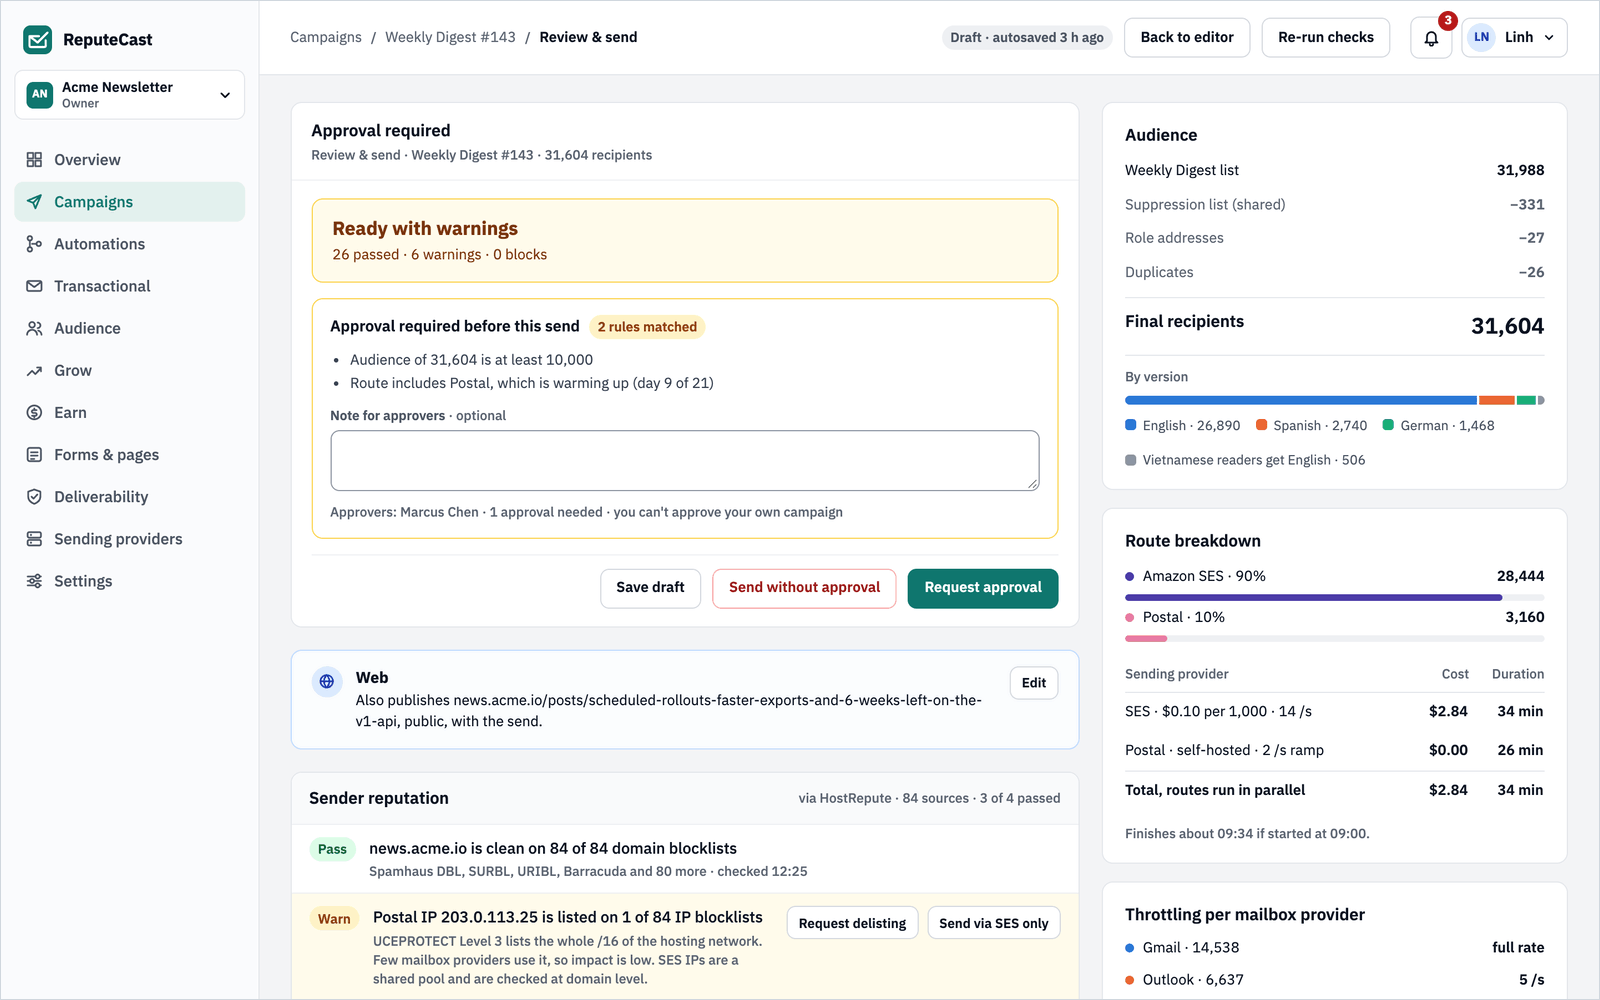
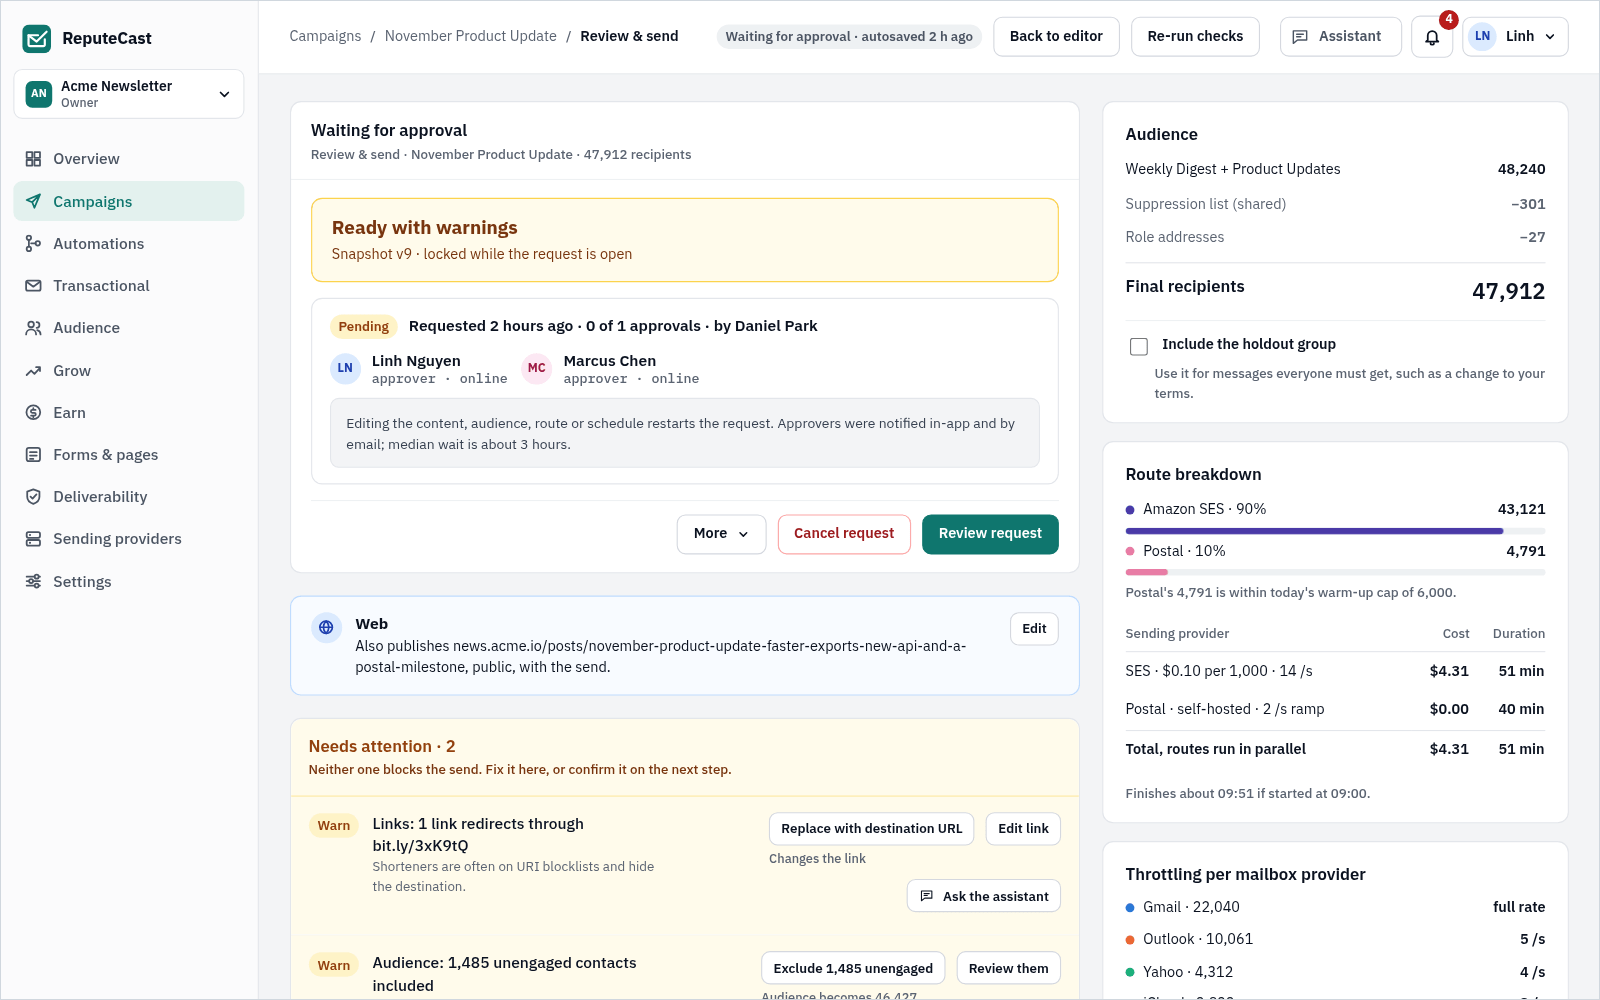
docs(readme): screenshots of 1.8, with the assistant and the dark theme
The thirteen screenshots were from 24 October, before the design
expansion's later milestones and the assistant. They are retaken from
the demo data at 1440 × 900 (1600 × 1000 files, the same border and
palette), and two join them: the assistant panel beside a report, and
the Overview in the dark theme. Send Readiness shows November Product
Update, since Weekly Digest #143 now reads "Couldn't finish every
check" in the demo (its personalized links aren't requested). Alt text
follows what each screenshot shows now.

diff --git a/README.md b/README.md
@@ -127,12 +127,12 @@ seat or workspace limit.
 <table>
   <tr>
     <td width="50%" valign="top">
-      <img src="docs/assets/screenshots/send-readiness.png" alt="Review and send: Send Readiness says the campaign is ready with warnings and needs approval, with the audience, the route split and each check">
+      <img src="docs/assets/screenshots/send-readiness.png" alt="Review and send: Send Readiness says the campaign is ready with warnings and is waiting for approval, with the audience, the route split and the warnings to fix">
       <b>Send Readiness</b> checks reputation, authentication, content and routing before you send.
     </td>
     <td width="50%" valign="top">
-      <img src="docs/assets/screenshots/live-monitor.png" alt="Live monitor of a send: progress per sending provider, results per mailbox provider and the auto-pause thresholds">
-      <b>Live monitor</b> with results per mailbox provider and auto-pause thresholds.
+      <img src="docs/assets/screenshots/live-monitor.png" alt="Live monitor of a send: the canary passed, progress per sending provider, live results and the auto-pause thresholds per mailbox provider">
+      <b>Live monitor</b> with a canary phase and auto-pause thresholds per mailbox provider.
     </td>
   </tr>
   <tr>
@@ -141,7 +141,7 @@ seat or workspace limit.
       <b>Composer</b> that flags deliverability problems while you write.
     </td>
     <td width="50%" valign="top">
-      <img src="docs/assets/screenshots/report.png" alt="Campaign report: an AI summary, human and machine opens, engagement over 72 hours and a click map">
+      <img src="docs/assets/screenshots/report.png" alt="Campaign report: an AI summary checked against the report's numbers, a question box, and human, privacy-protected and machine opens counted apart">
       <b>Reports</b> that count human and machine opens apart.
     </td>
   </tr>
@@ -165,19 +165,29 @@ seat or workspace limit.
       <b>SMS campaigns</b> that send at local time, with results per country.
     </td>
   </tr>
+  <tr>
+    <td width="50%" valign="top">
+      <img src="docs/assets/screenshots/assistant.png" alt="AI assistant: the chat panel docked beside a campaign report, suggesting the report to attach, with the workspace's model and suggested questions">
+      <b>AI assistant</b> beside every screen, with your own model and key.
+    </td>
+    <td width="50%" valign="top">
+      <img src="docs/assets/screenshots/dark-theme.png" alt="Overview in the dark theme: the sender health score, the next scheduled campaign and each sending provider's rates">
+      <b>Dark theme</b> for the whole app, following your device or your choice.
+    </td>
+  </tr>
 </table>
 
 <details>
 <summary>More screenshots</summary>
 <br>
 
-<img src="docs/assets/screenshots/routing.png" alt="Routing: a weighted 90/10 split between Amazon SES and Postal, conditions per mailbox provider, the failover policy and the route tester">
+<img src="docs/assets/screenshots/routing.png" alt="Routing: a weighted 90/10 split between Amazon SES and Postal, conditions by list and sender domain, the failover policy and the route tester">
 <p><b>Routing</b> across providers, with weighted splits, failover and a route tester.</p>
 
 <img src="docs/assets/screenshots/deliverability.png" alt="Deliverability: health per sending domain and IP, account health per provider and blocklist status">
 <p><b>Deliverability:</b> health per sending domain and IP, and each provider's account health.</p>
 
-<img src="docs/assets/screenshots/providers.png" alt="Sending providers: health, quotas, costs and capability badges for Amazon SES, Postmark and Postal">
+<img src="docs/assets/screenshots/providers.png" alt="Sending providers: health, quotas, costs and capability badges for Amazon SES and Postmark">
 <p><b>Sending providers:</b> health, quotas, costs and what each provider supports.</p>
 
 <img src="docs/assets/screenshots/segments.png" alt="Segment builder: conditions in AND and OR groups with a live count">
